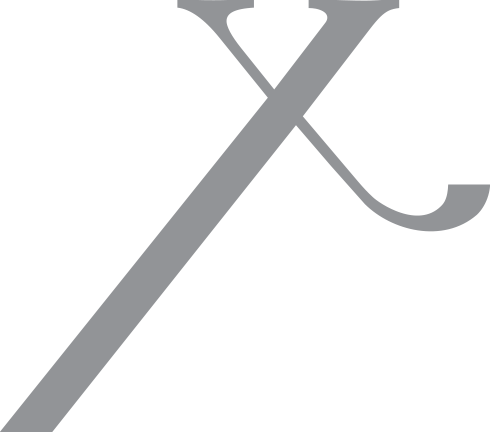
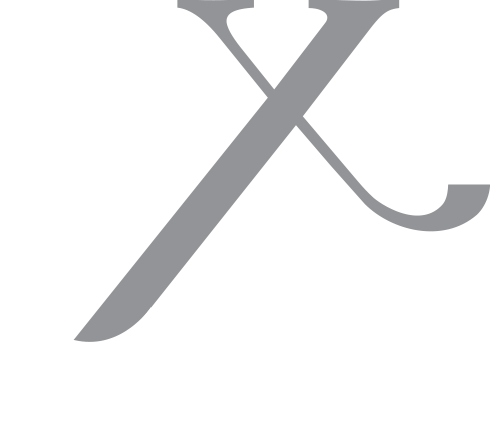
0

Changed region(s): [[0.0, 0.7523, 0.2755, 1.0], [0.2755, 0.7222, 0.3061, 0.7523]]

diff --git a/index.html b/index.html
@@ -509,8 +509,8 @@
         }
 
         .secy-3{
-            width: 18%;
-            margin: 22% 70% 0;
+          width: 13%;
+          margin: 22% 75% 0;
         }
 
         .abty0{
